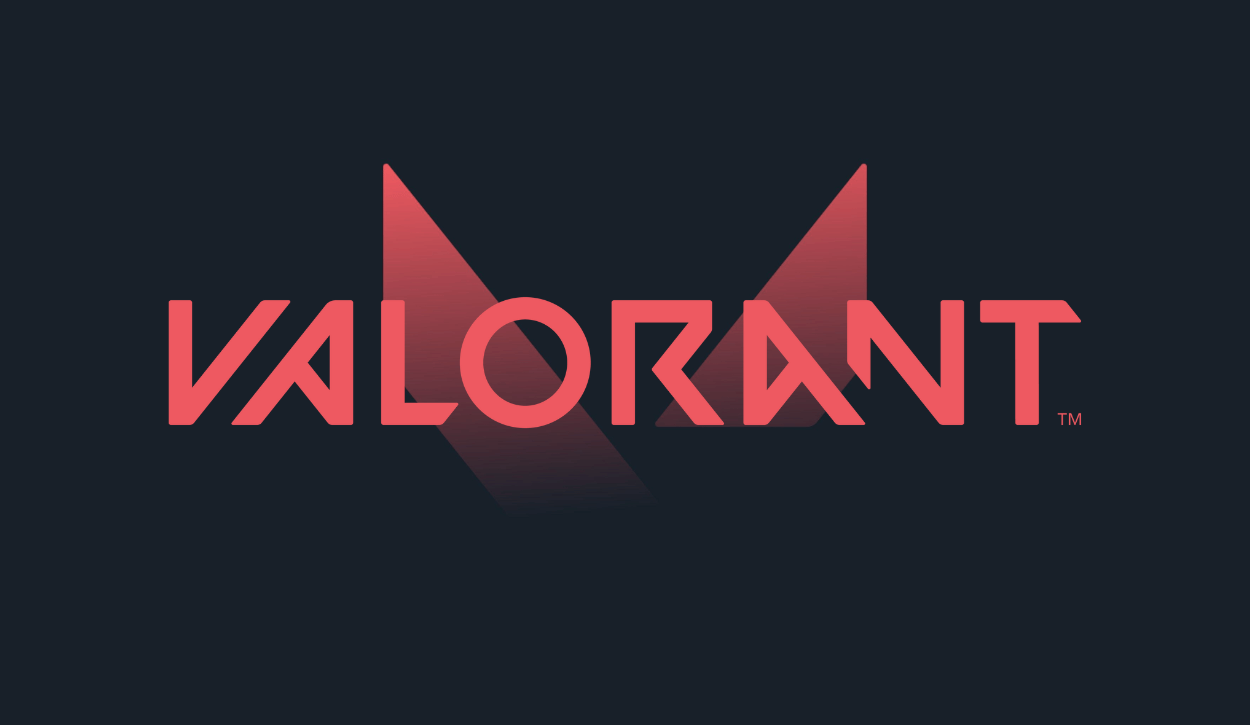
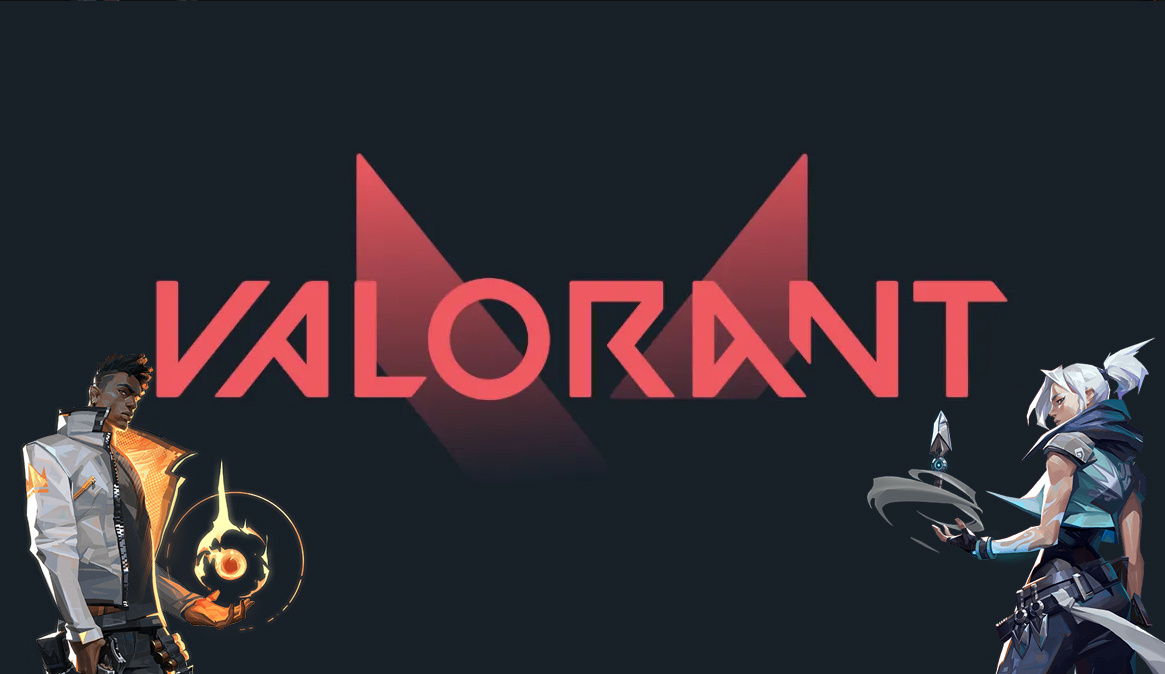
Almost done home page

diff --git a/FRONTEND/Home/script.js b/FRONTEND/Home/script.js
@@ -1,16 +1,40 @@
+// Button/ dropdown menu
 document.addEventListener('DOMContentLoaded', function() {
     const menuButton = document.getElementById('menuButton');
     const popupMenu = document.getElementById('popupMenu');
 
-    menuButton.addEventListener('click', function(event) {
+    menuButton.addEventListener('click', (event) => {
         popupMenu.style.display = popupMenu.style.display === 'block' ? 'none' : 'block';
-        popupMenu.style.left = event.clientX + 'px';
-        popupMenu.style.top = event.clientY + 'px';
     });
 
     document.addEventListener('click', function(event) {
         if (!popupMenu.contains(event.target) && event.target !== menuButton) {
             popupMenu.style.display = 'none';
         }
+    });
+});
+
+
+// falling letters
+document.addEventListener('DOMContentLoaded', function() {
+    const text = document.getElementById('animatedText');
+    let newHTML = '';
+   
+    for (let letter of text.innerText) {
+        if (letter === ' ') {
+            newHTML += '<span class="space"> </span>'; 
+        } else {
+            newHTML += '<span>' + letter + '</span>';
+        }
+    }
+    text.innerHTML = newHTML; 
+
+    let spans = text.querySelectorAll('span:not(.space)'); 
+    let delay = 0;
+    spans.forEach(span => {
+        span.style.opacity = '0'; 
+        span.style.display = 'inline-block';  
+        span.style.animation = `fall 0.6s ${delay}s forwards`;
+        delay += 0.05; 
     });
 });

diff --git a/FRONTEND/Home/styles.css b/FRONTEND/Home/styles.css
@@ -1,19 +1,70 @@
-body{
+/* Background and a box */
+body
+{
     background-image: url(/images/indexImg.jpg);
     background-repeat: no-repeat;
     background-size: cover;
+}
+#container
+{
+    display: flex;
+    flex-direction: row;
+    justify-content: center;
+}
 
+#h1Element
+{
+    border: 2px solid hsl(0, 5%, 15%);
+    border-radius: 10px;
+    box-shadow: 3px 3px 5px;
+    padding: 5px;
+    max-width: fit-content;
 }
-h1 {
+h1 
+{
     color: hsl(356, 64%, 61%);
-    text-size-adjust: 12px;
-    text-align: center;
+    font-family: Rockwell Condensed;
+ 
 }
+
+
+
+/* animation */
+#animatedText 
+{
+    font-family: Rockwell Condensed; 
+    color: hsl(356, 64%, 61%);
+    font-size: 2rem;
+    text-align: center; 
+    display: block; 
+    width: 100%; 
+}
+#animatedText span
+{
+    animation-name: fall;
+}
+@keyframes fall 
+{
+    0% {
+        opacity: 0;
+        transform: translateY(-20px);
+    }
+    100% {
+        opacity: 1;
+        transform: translateY(0);
+    }
+}
+
+
+
+/* hover menu */
 #menuButton {
+    font-family: Rockwell Condensed;
     padding: 10px 20px;
-    font-size: 16px;
+    font-size: 1.5rem;
     cursor: pointer;
-    color: red;
+    color: hsl(356, 64%, 61%);
+    background-color: hsl(211, 26%, 12%); 
     border-radius: 7px;
 }
 

diff --git a/FRONTEND/Home/index.html b/FRONTEND/Home/index.html
@@ -6,7 +6,7 @@
 <link rel="stylesheet" href="/Home/styles.css">
 </head>
 <body>
-<button id="menuButton">Open Menu</button>
+<button id="menuButton" >Open Menu</button>
 <div id="popupMenu" class="popup-menu">
     <ul>
         <li><a href="/">Home</a></li>
@@ -15,9 +15,16 @@
         <li><a href="/about_us">About us</a></li>
     </ul>
 </div>
+<div id="container" >
+    <div id="h1Element">
+        <h1>Valorant Team Comps and Strategies</h1> 
+    </div>
+</div>
 
-<h1>Valorant TeamComps and Strategies</h1>
-<p><em>The best website for Valorant players, looking for the best strategies in game!</em></p>
+
+
+    <p id="animatedText">The best website for Valorant players, looking for the best strategies in game!</p>
+
 
 <script src="/Home/script.js"></script>
 </body>
